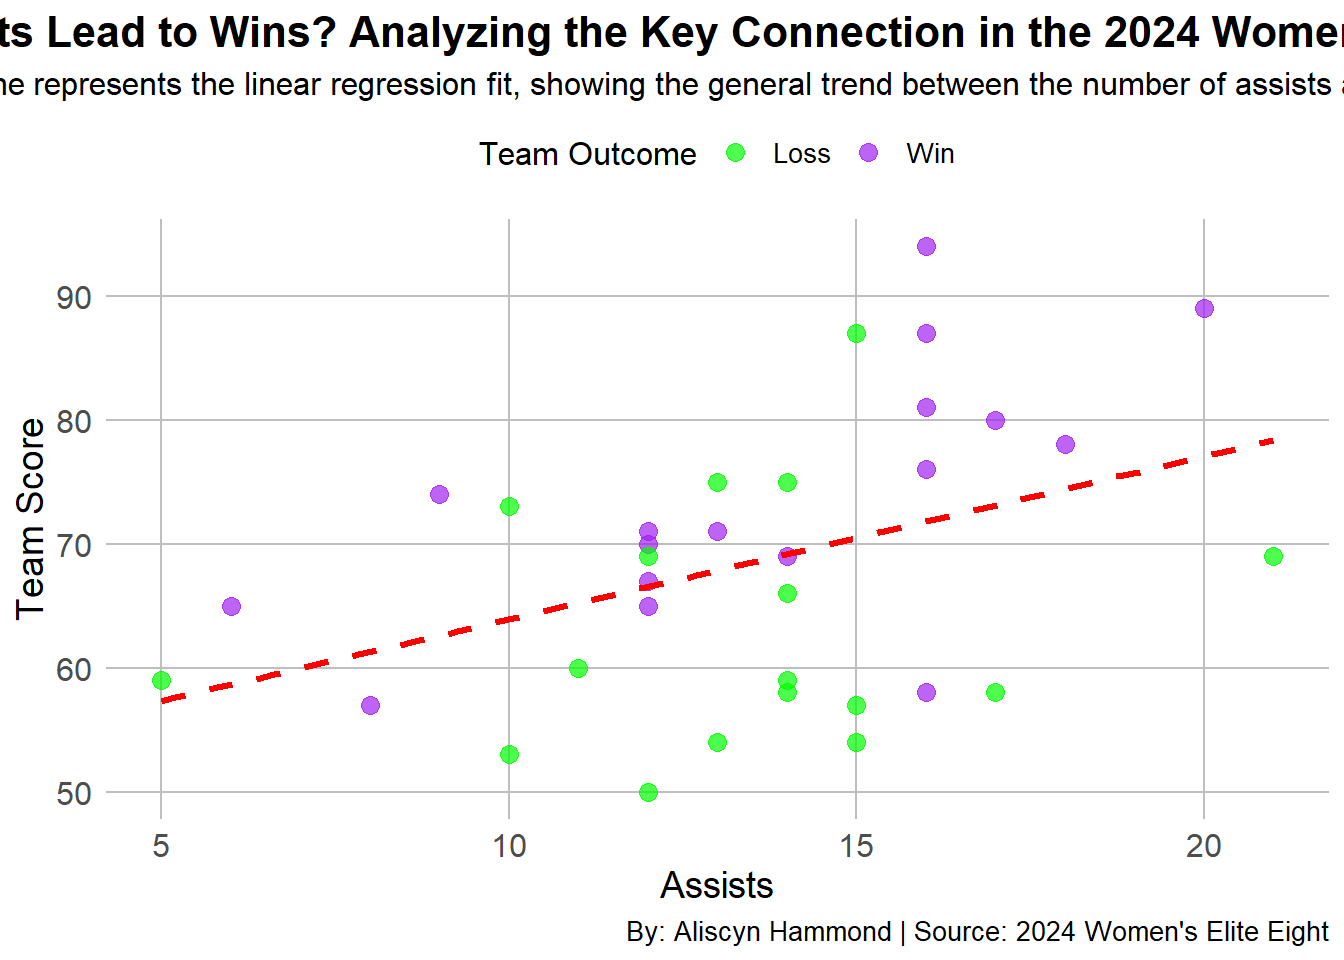
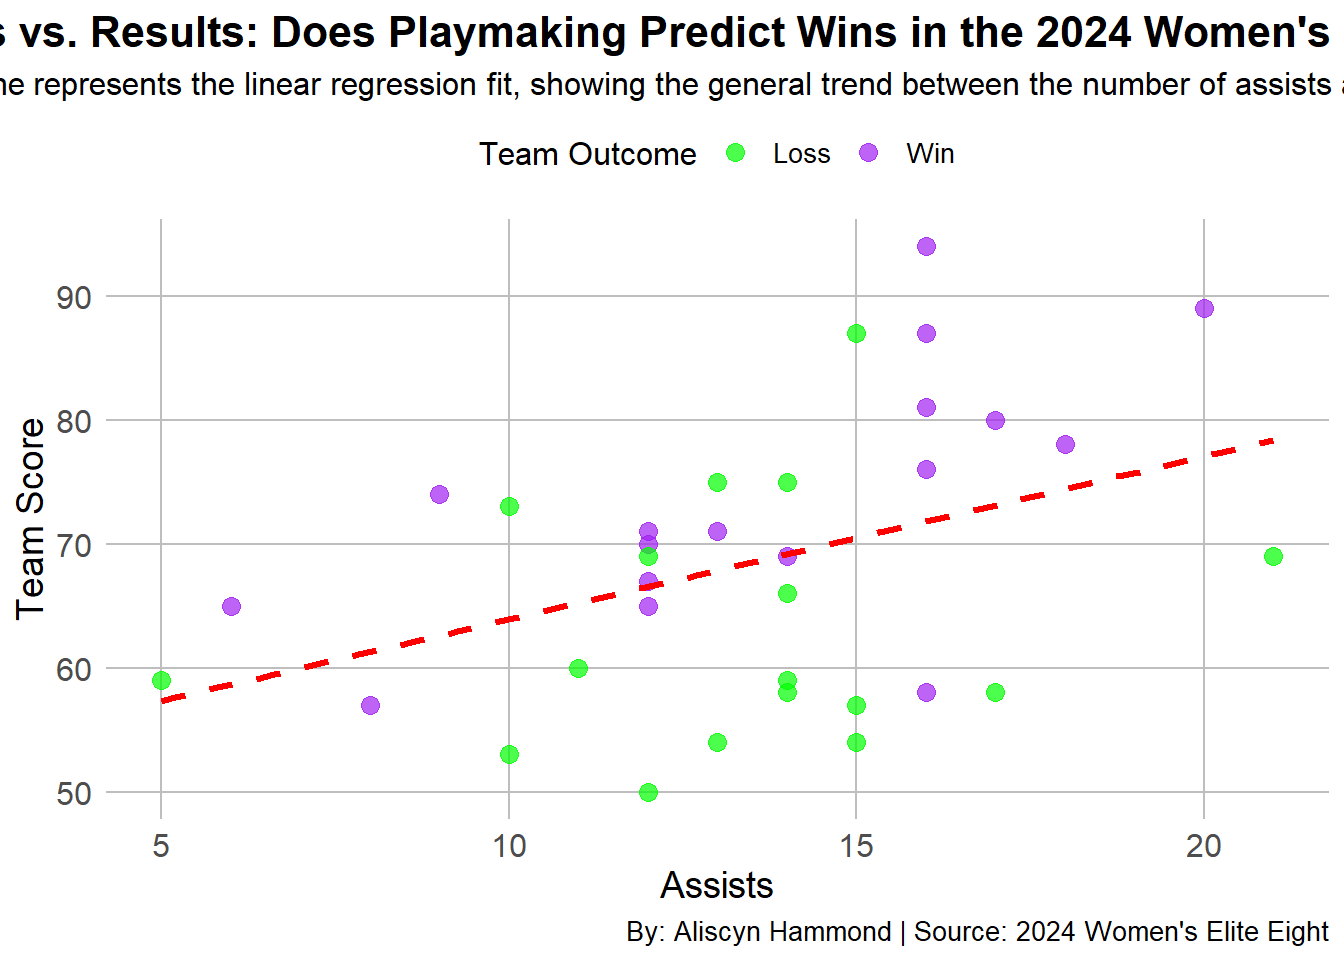
changed all titles for plots

Changed region(s): [[0.0, 0.0, 1.0, 0.0625]]

diff --git a/posts/elite-eight-women-basketball/index.html b/posts/elite-eight-women-basketball/index.html
@@ -216,7 +216,7 @@ pre > code.sourceCode > span > a:first-child::before { text-decoration: underlin
 <span id="cb1-13"><a href="#cb1-13" aria-hidden="true" tabindex="-1"></a>  <span class="at">labels=</span><span class="fu">c</span>(<span class="st">"TRUE"</span><span class="ot">=</span><span class="st">"Win"</span>,<span class="st">"FALSE"</span><span class="ot">=</span><span class="st">"Loss"</span>)</span>
 <span id="cb1-14"><a href="#cb1-14" aria-hidden="true" tabindex="-1"></a>  ) <span class="sc">+</span></span>
 <span id="cb1-15"><a href="#cb1-15" aria-hidden="true" tabindex="-1"></a>  <span class="fu">labs</span>(</span>
-<span id="cb1-16"><a href="#cb1-16" aria-hidden="true" tabindex="-1"></a>    <span class="at">title =</span> <span class="st">"Do Assists Lead to Wins? Analyzing the Key Connection in the 2024 Women's Elite Eight"</span>,</span>
+<span id="cb1-16"><a href="#cb1-16" aria-hidden="true" tabindex="-1"></a>    <span class="at">title =</span> <span class="st">"Assists vs. Results: Does Playmaking Predict Wins in the 2024 Women's Elite Eight?"</span>,</span>
 <span id="cb1-17"><a href="#cb1-17" aria-hidden="true" tabindex="-1"></a>    <span class="at">subtitle =</span> <span class="st">"The &lt;span style='color:red;'&gt;red&lt;/span&gt; dashed line represents the linear regression fit, showing the general trend between the number of assists and the final team score."</span>,</span>
 <span id="cb1-18"><a href="#cb1-18" aria-hidden="true" tabindex="-1"></a>    <span class="at">x =</span> <span class="st">"Assists"</span>,</span>
 <span id="cb1-19"><a href="#cb1-19" aria-hidden="true" tabindex="-1"></a>    <span class="at">y =</span> <span class="st">"Team Score"</span>,</span>
@@ -268,7 +268,7 @@ pre > code.sourceCode > span > a:first-child::before { text-decoration: underlin
 <span id="cb2-16"><a href="#cb2-16" aria-hidden="true" tabindex="-1"></a>  <span class="fu">geom_bar</span>(<span class="at">stat =</span> <span class="st">"identity"</span>, <span class="at">position =</span> <span class="st">"dodge"</span>) <span class="sc">+</span></span>
 <span id="cb2-17"><a href="#cb2-17" aria-hidden="true" tabindex="-1"></a>  <span class="fu">geom_hline</span>(<span class="at">data =</span> avg_assists, <span class="fu">aes</span>(<span class="at">yintercept =</span> avg_assists, <span class="at">color =</span> <span class="fu">factor</span>(team_winner)), <span class="at">linetype =</span> <span class="st">"dashed"</span>, <span class="at">size =</span> <span class="dv">1</span>, <span class="at">color =</span> <span class="st">"black"</span>) <span class="sc">+</span>  </span>
 <span id="cb2-18"><a href="#cb2-18" aria-hidden="true" tabindex="-1"></a>  <span class="fu">labs</span>(</span>
-<span id="cb2-19"><a href="#cb2-19" aria-hidden="true" tabindex="-1"></a>    <span class="at">title =</span> <span class="st">"Assists per Team in the 2024 Women's Elite Eight"</span>,</span>
+<span id="cb2-19"><a href="#cb2-19" aria-hidden="true" tabindex="-1"></a>    <span class="at">title =</span> <span class="st">"Assists vs. Outcomes: Elite Eight Playmaking Breakdown"</span>,</span>
 <span id="cb2-20"><a href="#cb2-20" aria-hidden="true" tabindex="-1"></a>    <span class="at">subtitle =</span> <span class="fu">paste</span>(<span class="st">"Black dashed lines show average assists among Winning and Losing Teams."</span>),</span>
 <span id="cb2-21"><a href="#cb2-21" aria-hidden="true" tabindex="-1"></a>    <span class="at">x =</span> <span class="st">"Team"</span>,</span>
 <span id="cb2-22"><a href="#cb2-22" aria-hidden="true" tabindex="-1"></a>    <span class="at">y =</span> <span class="st">"Assists"</span>,</span>
@@ -312,7 +312,7 @@ pre > code.sourceCode > span > a:first-child::before { text-decoration: underlin
 <span id="cb3-3"><a href="#cb3-3" aria-hidden="true" tabindex="-1"></a></span>
 <span id="cb3-4"><a href="#cb3-4" aria-hidden="true" tabindex="-1"></a><span class="fu">ggplot</span>(elite, <span class="fu">aes</span>(<span class="at">x =</span> <span class="fu">factor</span>(team_winner, <span class="at">labels =</span> <span class="fu">c</span>(<span class="st">"Losing"</span>, <span class="st">"Winning"</span>)), <span class="at">y =</span> assists, <span class="at">fill =</span> team_winner)) <span class="sc">+</span></span>
 <span id="cb3-5"><a href="#cb3-5" aria-hidden="true" tabindex="-1"></a>  <span class="fu">geom_boxplot</span>() <span class="sc">+</span></span>
-<span id="cb3-6"><a href="#cb3-6" aria-hidden="true" tabindex="-1"></a>  <span class="fu">labs</span>(<span class="at">title =</span> <span class="st">"Distribution of Assists by Team Status (Winner vs. Loser)"</span>,</span>
+<span id="cb3-6"><a href="#cb3-6" aria-hidden="true" tabindex="-1"></a>  <span class="fu">labs</span>(<span class="at">title =</span> <span class="st">"The Assist Divide: A Boxplot Analysis of Elite Eight Winners vs. Losers"</span>,</span>
 <span id="cb3-7"><a href="#cb3-7" aria-hidden="true" tabindex="-1"></a>       <span class="at">x =</span> <span class="st">"Team Status"</span>,</span>
 <span id="cb3-8"><a href="#cb3-8" aria-hidden="true" tabindex="-1"></a>       <span class="at">y =</span> <span class="st">"Assists"</span>,</span>
 <span id="cb3-9"><a href="#cb3-9" aria-hidden="true" tabindex="-1"></a>       <span class="at">caption =</span> <span class="st">"By: Aliscyn Hammond | Source: 2024 Women's Elite Eight Dataset"</span>) <span class="sc">+</span></span>

diff --git a/index.html b/index.html
@@ -210,7 +210,7 @@ window.Quarto = {
 
 <div class="quarto-listing quarto-listing-container-default" id="listing-listing">
 <div class="list quarto-listing-default">
-<div class="quarto-post image-right" data-index="0" data-categories="YmFza2V0YmFsbCx3b21lbiBzcG9ydHMsZWxpdGUgZWlnaHQ=" data-listing-date-sort="1731304800000" data-listing-file-modified-sort="1731456673922" data-listing-date-modified-sort="NaN" data-listing-reading-time-sort="7" data-listing-word-count-sort="1329">
+<div class="quarto-post image-right" data-index="0" data-categories="YmFza2V0YmFsbCx3b21lbiBzcG9ydHMsZWxpdGUgZWlnaHQ=" data-listing-date-sort="1731304800000" data-listing-file-modified-sort="1731457347127" data-listing-date-modified-sort="NaN" data-listing-reading-time-sort="7" data-listing-word-count-sort="1328">
 <div class="thumbnail">
 <p><a href="./posts/elite-eight-women-basketball/index.html" class="no-external"></a></p><a href="./posts/elite-eight-women-basketball/index.html" class="no-external">
 <p><img loading="lazy" src="./posts/elite-eight-women-basketball/image.png" class="thumbnail-image"></p>
